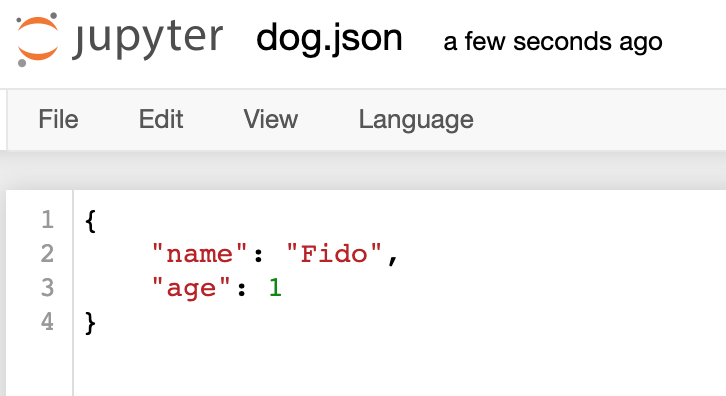
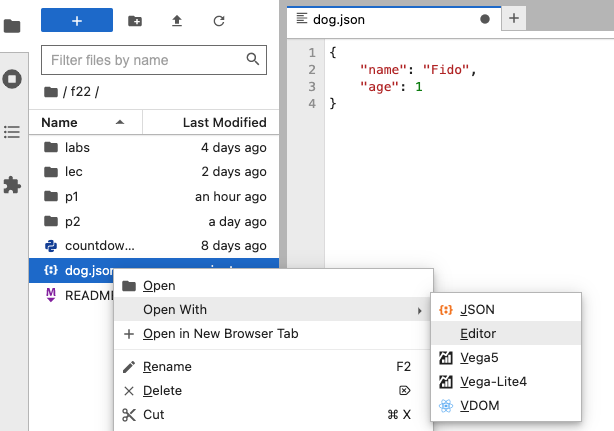
release W4 lab

diff --git a/labs/loans/README.md b/labs/loans/README.md
@@ -8,11 +8,10 @@ later when working on P2).
 ## loans.py
 
 In Jupyter, do the following:
-1. go to s22/p2
-2. click "New"
-3. choose "Text File"
-4. "File" > "Rename"
-5. type "loans.py"
+1. go to f22/p2
+2. right click in the file explore and create a "New File"
+3. name it loans.py
+4. open it
 
 Using a .py module is easy -- just run `import some_mod` to run
 `some_mod.py`, loading any function or classes it has.
@@ -333,3 +332,5 @@ And get this:
 ```
 
 3. make the method a generator.  Get rid of the `result` list, and instead of appending to it, yield `amt`.  Make sure the loop works the same way as before in your notebook.  One advantage of the generator is that the method will work even if the payment is too small (the generator will keep yielding larger amounts as the debt keeps growing).
+
+That last step is very important to passing the P2 tests!

diff --git a/labs/files-json/README.md b/labs/files-json/README.md
@@ -1,4 +1,4 @@
-# Review Files and JSON
+# Files and JSON
 
 ## Writing
 
@@ -25,7 +25,7 @@ line2
 
 ## Reading
 
-Create a file named `dog.json` in Jupyter.  You can use the "New / Text File" menu, like this:
+Create a file named `dog.json` in Jupyter.  You can right click in the file browser to create a new file:
 
 <img src="1.png" width=400>
 
@@ -38,9 +38,9 @@ Copy the following:
 }
 ```
 
-Paste it into `dog.json`, and be sure to SAVE it:
+Paste it into `dog.json` (which you should open with the "Editor"), and be sure to SAVE it:
 
-<img src="2.png" width=400>
+<img src="2.png" width=600>
 
 Now, back in your notebook, run this:
 

diff --git a/labs/lab4.md b/labs/lab4.md
@@ -1,12 +1,10 @@
-# DRAFT!  Don't start yet.
-
 # Lab 4
 
 Activities:
 
-1. Discuss with your group: "If you could shrink any animal to puppy-size, what animal would you own?"
+1. Discuss with your group: "If you could shrink any animal to puppy-size, what animal would you have as a pet?"
 
-2. review Python [files and JSON](./files-json)
+2. practice Python [files and JSON](./files-json)
 
 3. learn how to read [zip files](./files-zip) in Python
 
